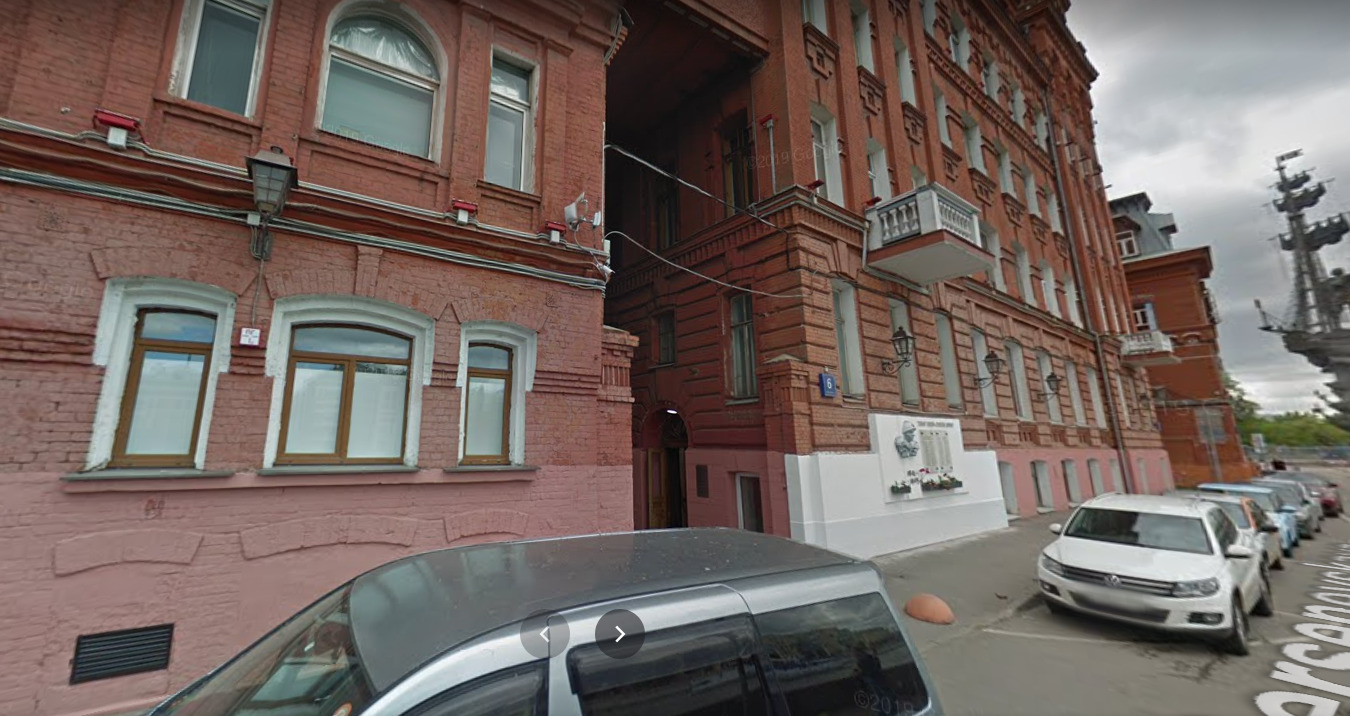
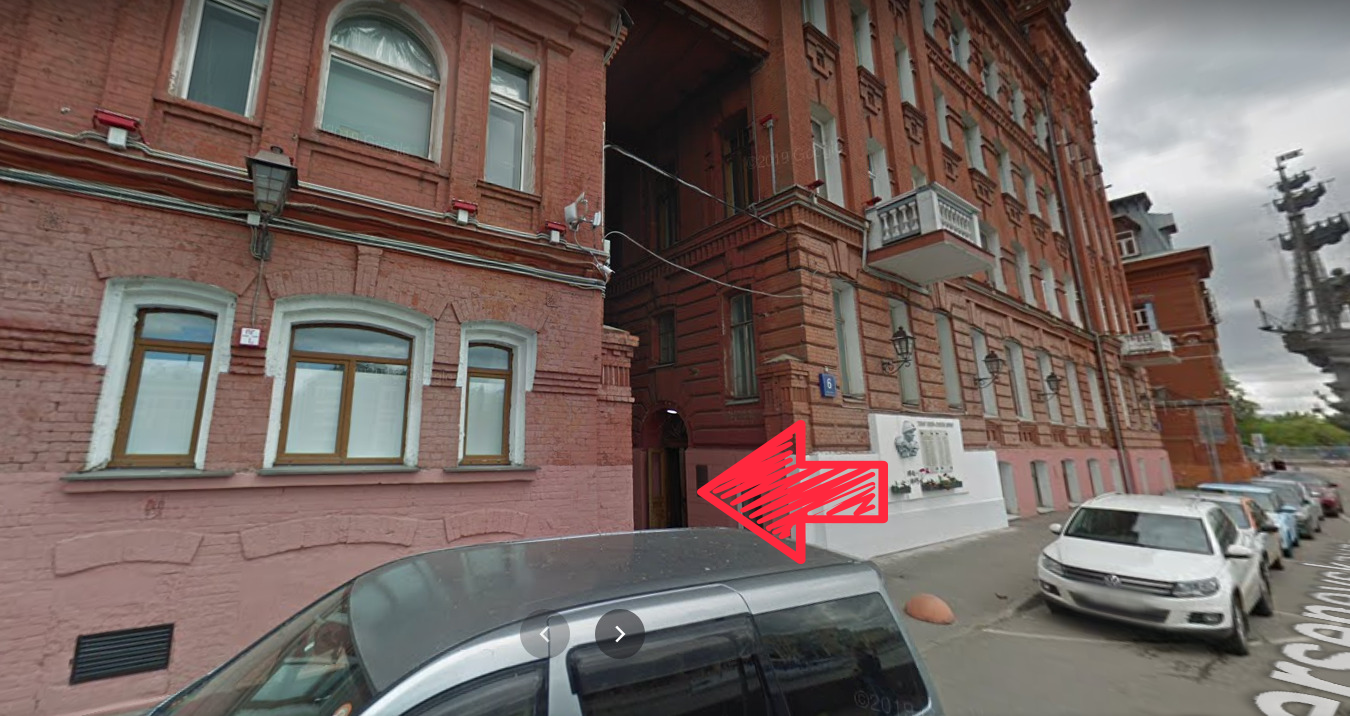
Add party route

Changed region(s): [[0.4978, 0.5838, 0.6844, 0.7989]]

diff --git a/src/Party/index.tsx b/src/Party/index.tsx
@@ -38,7 +38,15 @@ export const Party = memo(function Party() {
 
           <img className="mb-8 w-full rounded-lg" src={require('./assets/loft-photo.png')} />
           <div className="mb-6 text-xl font-semibold">Схема прохода</div>
-          <div>Скоро :)</div>
+          <img className="mb-6 w-full rounded-lg" src={require('./assets/loft-route.png')} />
+
+          <a className="inline-flex items-center hover:text-red-500" href="https://yandex.ru/maps/-/CCQ3Q8WckB" target="_blank">
+            <span className="mr-3 font-semibold uppercase">Посмотреть на Яндекс.Картах</span>
+
+            <div className="bg-gray-200 rounded">
+              <div className="ml-1 mb-1 text-2xl leading-none text-red-500 transform -rotate-45">➤</div>
+            </div>
+          </a>
         </div>
       </div>
     </Container>

diff --git a/src/Layout/Header/index.tsx b/src/Layout/Header/index.tsx
@@ -2,7 +2,7 @@ import cn from 'classnames'
 import {Container} from 'common/Container'
 import {Link} from 'common/Link'
 import {memo} from 'react'
-const linkCn = 'block px-1 xs:px-5 py-5 tracking-widest font-medium'
+const linkCn = 'block px-1 xs:px-5 py-5 tracking-widest font-medium hover:text-red-500'
 const activeLinkCn = '-mb-0.5 border-b-4 border-red-500'
 
 export const Header = memo(function Header() {
